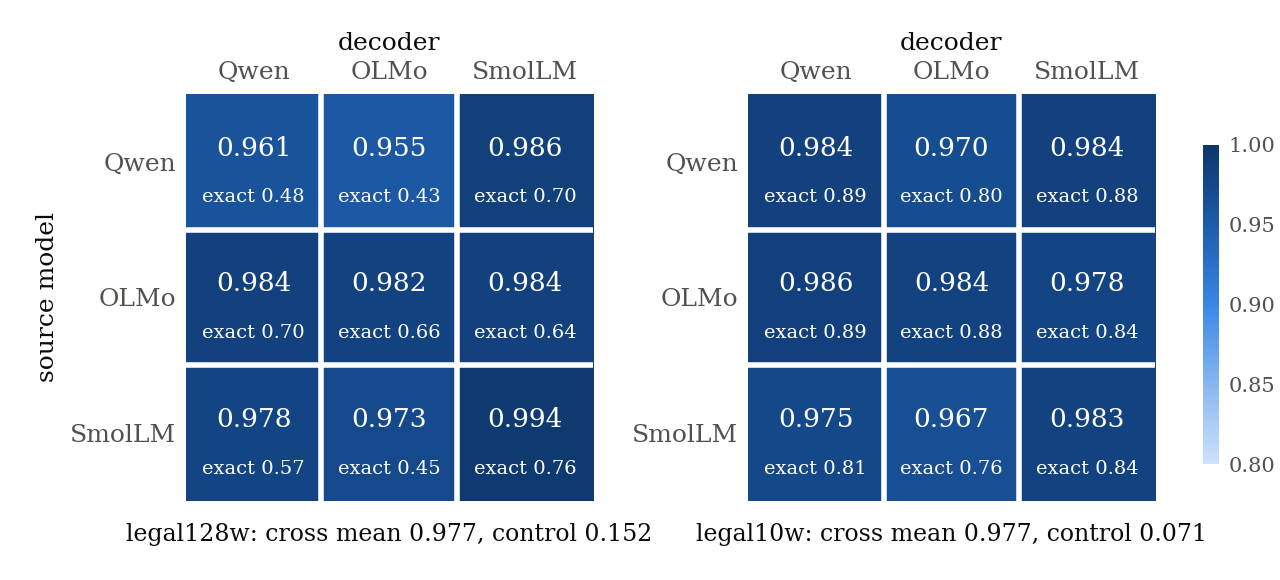
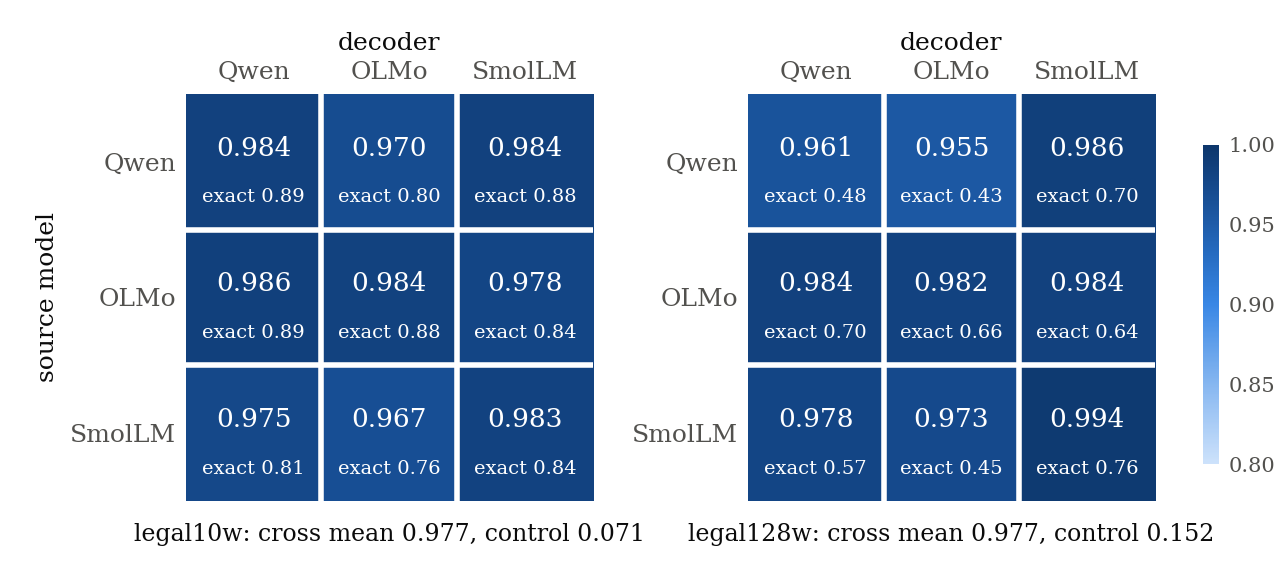
ch4: the leak is defined in rows (90 rows, nine per prompt), the whole-prompt paragraph is removed, and the discussion opens on the objective, the attack, and the size of the gain; ch3: legal10w before legal128w in prose, table, and figure, the depth and the self-reconstruction weight are explained,

diff --git a/chapters/ch4_weak_supervised_attack/draft_v2/ch4_attack.tex b/chapters/ch4_weak_supervised_attack/draft_v2/ch4_attack.tex
@@ -9,7 +9,7 @@ This chapter adds a target model and connects it to the frozen hub through an af
 The frozen projectors and decoders then reconstruct the target model's prompts from the output of the map.
 
 Two sources of information train the map.
-First, a small leak, a set of prompts with both their text and the target model's hidden states, supervises the map directly.
+First, a small leak, a set of short text spans with both their text and the target model's hidden states, supervises the map directly.
 Second, a matching term aligns unpaired data, hidden states of the target model and hub outputs with no correspondence between them.
 The chapter tests whether the matching term improves reconstruction over the leak alone.
 With a leak of \vf{90} rows, about ninety words, the matching term raises mean word-F1 on \vf{4{,}500} held-out NQ prompts from \vf{0.35} to \vf{0.77} over three seeds. % src: results/v7_2/main/w46-confirmation-s{1,2,3}.json (0.3544, 0.7659)
@@ -29,12 +29,13 @@ Four resources are available to the adversary.
 \item \textbf{Two unpaired pools.} The first pool holds hidden states of the target model for prompts of the domain under attack, without their text.
 The second pool holds hub outputs of text from the same domain, computed by OLMo and its source adapter.
 No prompt of one pool is matched to a prompt of the other.
-\item \textbf{A leak.} A small set of prompts for which the adversary holds both the text and the target model's hidden states.
+\item \textbf{A leak.} A small set of short text spans for which the adversary holds both the text and the target model's hidden states.
+The standard leak holds \vf{90} rows, the first nine rows of each of ten prompts, and the adversary holds nothing else of those prompts.
 \item \textbf{The tokenizer of the target model}, applied to the leaked prompts only.
 \end{itemize}
 
 \paragraph{Rows.} OLMo turns the leak into paired data.
-For each leaked prompt, the adversary runs OLMo on the text and obtains the hub outputs of that prompt. % src: src/v6_4/pairs.py (build_pairs)
+For each leaked span, the adversary runs OLMo on the text and obtains the hub outputs of that span. % src: src/v6_4/pairs.py (build_pairs)
 The target model and OLMo split the text into different tokens, so the adversary groups their tokens by shared character boundaries, as in the token groups of Section~\ref{sec:hub:training}.
 Each group forms a row, a pair of vectors for one short span of text.
 The pair holds the average of the target model's hidden states and the average of the hub outputs, both weighted by character coverage and not normalized to unit length. % src: src/v6_4/pairs.py
@@ -305,14 +306,6 @@ The content of the rows matters as well.
 A leak of stop words, or of one repeated word, leaves the hybrid fit at the level of the supervised fit, at \vf{0.058} against \vf{0.056} and \vf{0.054} against \vf{0.057}. % src: mixed-oct_w5-s1-L90.json cells *L90-stop (0.0582, 0.0555), *L90-one_word (0.0535, 0.0568)
 The comparison rests on one seed and does not separate the number of prompts from the content of the particular prompts drawn.
 
-At larger leaks the number of prompts no longer separates the two fits on legal128w.
-Ten whole prompts supply \vf{856} rows, and the hybrid fit of the main comparison scores \vf{0.501} against \vf{0.487} for the supervised fit. % src: results/legal128w/v7_2/main/mixed-v8_7-s1.json seeds.1.cells b10/a0.9/sq/m0/t0.1297/r1/B8192 (0.5006), b10/a1/r1 (0.4869); budgets.10.anchor_counts.valid_aligned_pairs (856)
-Nine rows from each of \vf{100} prompts supply \vf{900} rows, and the two fits score \vf{0.496} and \vf{0.478}. % src: results/legal128w/v7_2/main/mixed-w46-std-L900.json seeds.1.cells (0.4960, 0.4783)
-The gain is below \vf{0.02} under both leaks, so the spread of the rows over prompts makes little difference at this size under the setting of the main comparison.
-%% BIG CHANGE: claim narrowed after review (2026-11-17); one seed, and the best cell is chosen on the prompts that score it.
-A different setting recovers part of the gain, since the best cell of Figure~\ref{fig:attack:grid-size} gains \vf{0.118} on the nine-row leak.
-With \vf{30} and \vf{100} whole prompts, the supervised fit overtakes the hybrid fit, at \vf{0.731} against \vf{0.613} and \vf{0.813} against \vf{0.654}. % src: mixed-v8_7-s1.json, b30 and b100 cells (0.7307, 0.6131; 0.8133, 0.6544); 2,569 and 8,612 rows
-
 \begin{figure}[ht]
 \centering
 \includegraphics[width=0.8\textwidth]{ch4/leak_shape}
@@ -451,25 +444,29 @@ A confirmatory test requires a paired interval for the gain over the best decode
 %% ------------------------------------------------------------------
 \section{Discussion and Limitations}\label{sec:attack:discussion}
 
-A target model outside hub training connects to the hub through one affine map, and unpaired matching improves the reconstruction obtained from a small supervised leak.
-With \vf{90} leaked rows, word-F1 on held-out prompts rises from \vf{0.354} to \vf{0.766} on NQ, from \vf{0.192} to \vf{0.599} on legal10w, and from \vf{0.102} to \vf{0.321} on legal128w. % src: results/{v7_2,legal10w/v7_2,legal128w/v7_2}/main/w46-confirmation-s{1,2,3}.json
-The gains on NQ and legal128w, the two datasets that H2 names, meet its criterion.
+%% BIG CHANGE: discussion opening rewritten at the author's request (2026-11-17): the objective first, then the attack, then the size of the gain; transitions added; no number changed.
+The chapter asked whether a model outside hub training can be read through the hub when the adversary holds only a small leak.
+The attack connects such a target model to the frozen hub through one affine map.
+A leak of \vf{90} rows supervises the map, and unpaired matching aligns it further on data that carry no correspondence.
+Matching accounts for most of the reconstruction.
+On held-out NQ prompts the leak alone reaches a word-F1 of \vf{0.354}, and with matching the same leak reaches \vf{0.766}. % src: results/v7_2/main/w46-confirmation-s{1,2,3}.json
+The same step raises word-F1 from \vf{0.192} to \vf{0.599} on legal10w and from \vf{0.102} to \vf{0.321} on legal128w. % src: results/{legal10w,legal128w}/v7_2/main/w46-confirmation-s{1,2,3}.json
+Word-F1 thus more than doubles on every dataset, and the gains on NQ and legal128w, the two datasets that H2 names, meet its criterion.
 
-The attack trains only an affine map, and the hub and its decoders stay frozen.
-An affine map preserves the linear structure of the hidden states it receives.
+The gain also bears on the representations themselves.
+The attack trains only an affine map, while the hub and its decoders stay frozen, and an affine map preserves the linear structure of the hidden states it receives.
 The gain from matching therefore suggests that the hidden states of the target model and the hub outputs share that structure up to an affine transformation.
 The Platonic Representation Hypothesis predicts this similarity between models, here for a target model that took no part in hub training.
 
-Three findings delimit the result.
-%% BIG CHANGE: claim corrected to the nine-row leak-size comparison (was: largest at small leaks, 0.076 at 986 rows on NQ).
-The gain peaks at leaks of \vf{45} to \vf{90} rows and shrinks as the leak grows, to \vf{0.089} at \vf{900} rows on NQ and on legal10w. % src: mixed-w46-std-L900.json of NQ and legal10w, seed 1 (0.0889, 0.0889)
-The gain holds only within a range of temperatures.
-Without a leak, the tested blind maps exceed their mismatched-prompt controls by at most \vf{0.025} word-F1.
+Three findings bound the gain.
+First, the gain depends on the size of the leak, with a peak at \vf{45} to \vf{90} rows and a fall to \vf{0.089} at \vf{900} rows on NQ and on legal10w. % src: mixed-w46-std-L900.json of NQ and legal10w, seed 1 (0.0889, 0.0889)
+Second, the gain holds only within a range of temperatures.
+Third, matching does not replace the leak, since without one the tested blind maps exceed their mismatched-prompt controls by at most \vf{0.025} word-F1.
 
-A lower decoder loss and a higher word-F1 do not improve together consistently.
-The objective does not measure the decoder's predictions, and teacher-forced cross-entropy and KL divergence do.
+Two supporting experiments concern the decoders and not the map.
+The objective measures agreement with hub outputs, whereas teacher-forced cross-entropy and KL divergence measure the decoder's predictions, and the two do not improve together.
 Training the map on the KL divergence lowers the cross-entropy of SmolLM by \vf{0.15} to \vf{0.26} nats per content word on held-out legal128w prompts, with one seed, and adds little word-F1. % src: oct_w4-summary.json budgets.*.confirmation.gain_vs_start.kl/beta0.ce
-A second-round language model merges the three decoders' reconstructions into one text at the level of the best decoder, \vf{0.12} to \vf{0.26} word-F1 above their mean.
+A second-round language model, in turn, merges the three decoders' reconstructions into one text at the level of the best decoder, \vf{0.12} to \vf{0.26} word-F1 above their mean.
 
 \paragraph{What the reconstructions contain.} The results establish a gain in word overlap, not exact recovery, recovery of the facts of a prompt, or an amount of leaked information.
 Exact match under the hybrid fit is \vf{0.21} on NQ and rounds to zero on legal128w.

diff --git a/chapters/ch3_translation_hub/draft_v4/ch3_hub.tex b/chapters/ch3_translation_hub/draft_v4/ch3_hub.tex
@@ -45,7 +45,8 @@ The projected vectors form a soft prompt, and the decoder generates the reconstr
 
 \paragraph{Models and directions.} The three models are Qwen3.5-0.8B, OLMo-2-1B, and SmolLM2-1.7B.
 Each contributes hidden states from the block at three quarters of its depth: block \vf{18} of \vf{24} in Qwen (width \vf{1024}), block \vf{12} of \vf{16} in OLMo (width \vf{2048}), and block \vf{18} of \vf{24} in SmolLM (width \vf{2048}). % src: configs/v6_3.yaml (d3_block, width); configs/v3.yaml (blocks, depth_fractions)
-% \todo{One sentence on why this depth, with its source.}
+The depth is a fixed choice and was not tuned.
+The effect of depth on reconstruction is left to future work (Chapter~\ref{ch:future}).
 A direction pairs a source model with a decoder, e.g., Qwen $\to$ hub $\to$ OLMo.
 Three models define nine directions: six cross-model directions and three self-reconstruction directions.
 In a cross-model direction the decoder reconstructs the prompt from another model's hidden states, so the cross-model results test H1.
@@ -79,7 +80,8 @@ The decoding loss is a weighted mean over the nine directions:
 \label{eq:hub:dec}
 \end{equation}
 % src: src/v6_2/losses.py (weighted_direction_ce: (sum cross + 1/3 sum self)/7; h3_objective); configs/v6_3.yaml (loss)
-Cross-model reconstruction thus accounts for $6/7$ of the decoding loss and self-reconstruction for $1/7$. % TODO(author): state why self-reconstruction is down-weighted; v6_2/plan.md fixes the weight without a reason
+Self-reconstruction is expected to succeed without any alignment between models, so its three directions together receive the weight of one cross-model direction, and the loss concentrates on translation between models.
+Cross-model reconstruction thus accounts for $6/7$ of the decoding loss and self-reconstruction for $1/7$.
 
 \paragraph{Token groups.} The two alignment losses compare models at corresponding positions of a prompt, yet the three tokenizers segment a prompt differently.
 For each pair of models, the tokens are therefore collected into token groups: a group ends only at a character position where both tokenizers end a token (whitespace is ignored). % src: src/v3/alignment.py (connected components, a_weights, b_weights); src/v6_2/data.py (_pair_groups)
@@ -121,7 +123,7 @@ A checkpoint is scored every \vf{250} updates, and the earliest within \vf{0.002
 
 \paragraph{Free-running decoding.} H1 is evaluated under free-running decoding, because under teacher forcing the ground-truth prefix carries information about the next token.
 Each decoder conditions on the soft prompt and on its own generated prefix; greedy generation starts at the start token and stops at the end-of-sequence token or at the generation cap.
-The cap is the length of the soft prompt plus \vf{32} tokens on the legal datasets. % TODO(author): state the cap on NQ
+The cap is the length of the soft prompt plus \vf{8} tokens on NQ and plus \vf{32} tokens on the legal datasets. % src: configs/v6_3.yaml (cap_margin 8); legal hub configs (32); NQ re-evaluated at 32 moves no direction by more than 0.001 (commit e1ec486)
 
 \paragraph{Metrics.} Two metrics compare the reconstruction with the source prompt.
 Word-F1 is the harmonic mean of word precision and recall over word multisets, averaged over prompts.
@@ -194,18 +196,19 @@ Mismatched prompt, word-F1 \vf{0.25} & \hit{who} \miss{plays the girl jinx} \hit
 Two legal datasets test H1 on text that differs from question prompts in vocabulary and in length.
 A separate hub is trained per dataset, with the architecture and objective of Sections~\ref{sec:hub:design} and~\ref{sec:hub:training}.
 
-\paragraph{Datasets.} The legal128w dataset cuts one contiguous window from each legal document, starting at a word drawn uniformly over the document.
+\paragraph{Datasets.} Both datasets are cut from the same legal documents.
+The legal10w dataset cuts ten consecutive words from a document, from a start word drawn uniformly over the document. % src: documents/glossary.md (window corpus, piece corpus)
+The legal128w dataset cuts one longer contiguous window, starting at a word drawn uniformly over the document.
 The window grows word by word and stops at \vf{100} tokens under the tokenizer that yields the most tokens for it. % src: src/v7_8/corpus.py (SEGMENT_MAX_TOKENS 100; tokenizers pythia, olmo, qwen, smollm)
 A window of that length averages \vf{68} words on the validation split. % src: artifacts/legal128w/v3/manifests/main-splits.jsonl window_words, validation split (mean 67.6, range 8 to 95)
 The name records a looser ceiling, \vf{128} tokens under every tokenizer, which the \vf{100}-token stop keeps out of reach. % src: src/v7_8/corpus.py (MAX_TOKENS 128); token counts of the first 1,000 validation prompts (maximum 100 under each of the four tokenizers)
-The legal10w dataset cuts ten consecutive words from the same source documents, from a start word drawn uniformly over the document. % src: documents/glossary.md (window corpus, piece corpus)
 Each dataset has \vf{40{,}000} training and \vf{5{,}000} validation prompts. % src: configs/v6_3_legal{128w,10w}.yaml (n_train, n_validation)
 
 \paragraph{Results.} Both legal hubs meet both criteria for H1 (Table~\ref{tab:hub:legal}).
-Mean cross-model word-F1 is \vf{0.977} on each dataset, against mismatched-prompt controls of \vf{0.152} on legal128w and \vf{0.071} on legal10w. % src: results/legal{128w,10w}/v6_3/inversion.json cross_mean (hub 0.9769, 0.9767; shuffled 0.1519, 0.0706)
+Mean cross-model word-F1 is \vf{0.977} on each dataset, against mismatched-prompt controls of \vf{0.071} on legal10w and \vf{0.152} on legal128w. % src: results/legal{10w,128w}/v6_3/inversion.json cross_mean (hub 0.9767, 0.9769; shuffled 0.0706, 0.1519)
 Every cross-model direction exceeds \vf{0.90}; the lowest is Qwen $\to$ OLMo on legal128w, at \vf{0.955} (Figure~\ref{fig:hub:legal-directions}). % src: same files, directions (cross minima 0.9552, 0.9670)
 The lower scores into Qwen on NQ do not recur: the cross-model directions into Qwen score \vf{0.975} to \vf{0.986}. % src: same files, olmo->qwen and smollm->qwen (0.9842, 0.9784; 0.9858, 0.9752)
-Exact match is lower on the long prompts of legal128w, at \vf{0.58}, than on the ten-word prompts of legal10w, at \vf{0.83}; the comparison does not isolate length from content.
+Exact match is higher on the ten-word prompts of legal10w, at \vf{0.83}, than on the long prompts of legal128w, at \vf{0.58}; the comparison does not isolate length from content.
 
 \begin{table}[H]
 \caption{Each legal hub exceeds a mean cross-model word-F1 of \vf{0.90} with a control below \vf{0.20}.
@@ -216,8 +219,8 @@ Free-running word-F1 and exact match averaged over the six cross-model direction
 \toprule
 Dataset & Word-F1 & Exact match & Control word-F1 \\
 \midrule
-legal128w & \vf{0.977} & \vf{0.58} & \vf{0.152} \\ % src: results/legal128w/v6_3/inversion.json cross_mean (0.9769, 0.5814, 0.1519)
 legal10w & \vf{0.977} & \vf{0.83} & \vf{0.071} \\ % src: results/legal10w/v6_3/inversion.json cross_mean (0.9767, 0.8291, 0.0706)
+legal128w & \vf{0.977} & \vf{0.58} & \vf{0.152} \\ % src: results/legal128w/v6_3/inversion.json cross_mean (0.9769, 0.5814, 0.1519)
 \bottomrule
 \end{tabular}
 \end{table}

diff --git a/frontmatter/abstract.tex b/frontmatter/abstract.tex
@@ -4,4 +4,4 @@ Split inference partitions a large language model (LLM) across client and cloud:
 
 Motivated by that embedding-only result, we develop alignment-based inversion attacks on an LLM's hidden state, combining limited leaked information with unsupervised matching to improve prompt recovery. The central component is a translation hub that maps the hidden states of multiple open-weight LLMs into a shared space and reconstructs the input texts through soft prompt injection into the same LLMs, run as decoders. A lightweight affine map aligns a target model's hidden states with the hub, anchored by a limited set of hidden states paired with their source tokens and refined through unsupervised matching on unpaired hidden states.
 
-Across the evaluation settings, reconstruction word-F1 increases with the leak budget, while the gain from unsupervised matching decreases. On Natural Questions, the hub trained with full supervision reconstructs the open-weight LLMs' prompts at word-F1 0.95, the reference for the attack. For a target model held out from hub training, 90 leaked tokens yield word-F1 0.35 on the same dataset, and unsupervised matching raises it to 0.77. Future work will evaluate whether model depth and token order within a sequence give the adversary additional signal to exploit in a split inference setting. Taken together, these studies probe the limits of privacy in split inference given shared representations across language models and the structure of natural language.
+Across the evaluation settings, reconstruction word-F1 increases with the size of the leak, while the gain from unsupervised matching peaks at leaks of about 45 to 90 words and shrinks as the leak grows. On Natural Questions, the hub trained with full supervision reconstructs the open-weight LLMs' prompts at word-F1 0.95, the reference for the attack. For a target model held out from hub training, a leak of about 90 words yields word-F1 0.35 on the same dataset, and unsupervised matching raises it to 0.77. Future work will evaluate whether model depth and token order within a sequence give the adversary additional signal to exploit in a split inference setting. Taken together, these studies probe the limits of privacy in split inference given shared representations across language models and the structure of natural language.

diff --git a/figures/scripts/make_hub_figures.py b/figures/scripts/make_hub_figures.py
@@ -207,7 +207,7 @@ directions()
 directions({"NQ": "results/v6_3/hpc-final/inversion.json"}, "direction_recovery_nq", (3.9, 2.9),
            control="mismatched prompt")  # the records' "shuffled" arm is another prompt's memory
 # The two legal hubs of the chapter (2026-11-15); legal10s is held back.
-directions({c: f"results/{c}/v6_3/inversion.json" for c in ("legal128w", "legal10w")},
+directions({c: f"results/{c}/v6_3/inversion.json" for c in ("legal10w", "legal128w")},
            "direction_recovery_legal", (6.4, 2.9), control="control")
 translation()
 ceiling()
